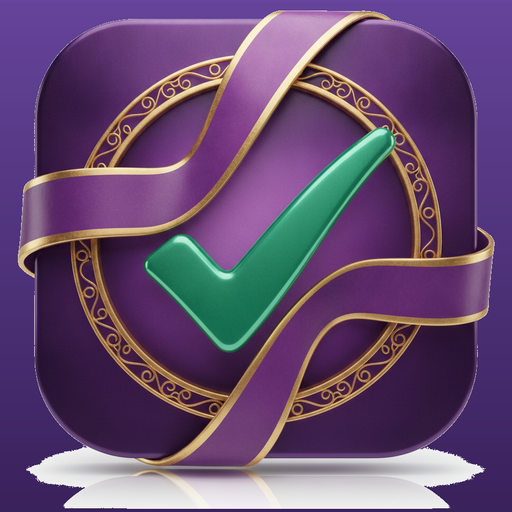
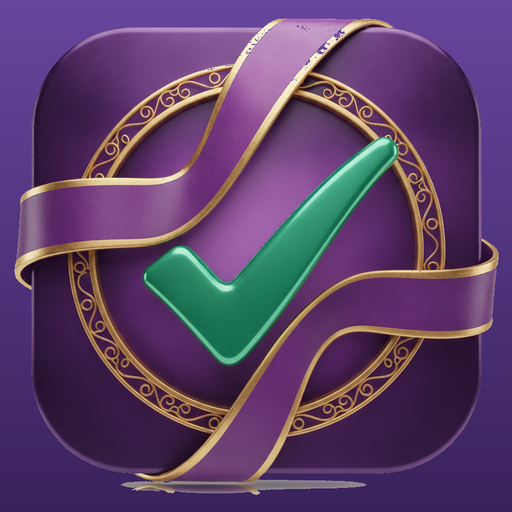
Atualiza index.html

diff --git a/sw.js b/sw.js
@@ -1,6 +1,6 @@
 /* Service Worker — app shell offline + HTML sempre fresco.
    Os dados (Firebase, outra origem) NUNCA são cacheados: passam direto pela rede. */
-const CACHE = "agenda-shell-v5";
+const CACHE = "agenda-shell-v6";
 const SHELL = ["./", "./index.html", "./manifest.json", "./icon-192.png", "./icon-512.png"];
 
 self.addEventListener("install", (e) => {